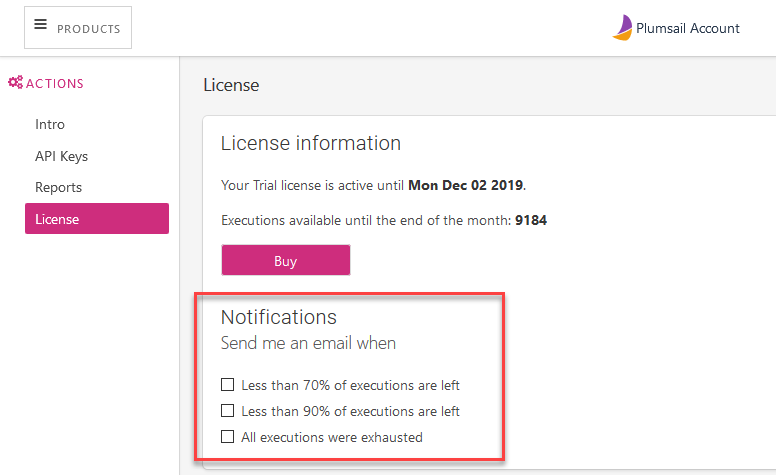
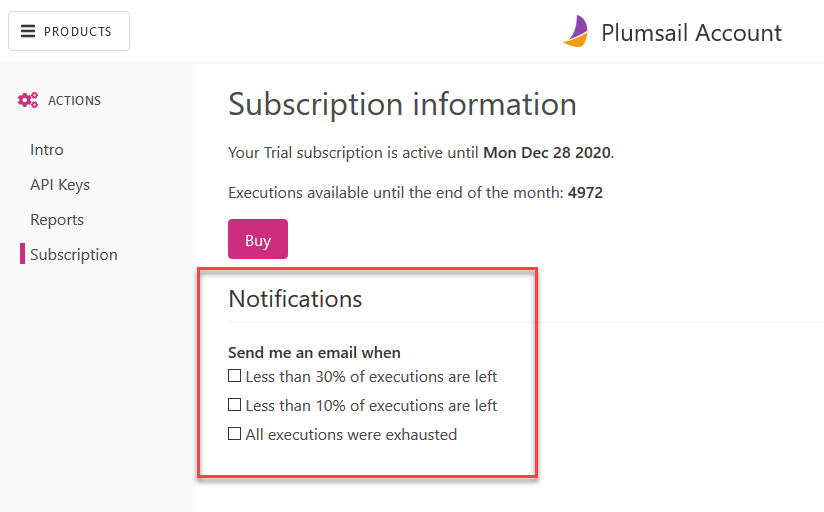
corrected license page and added Reports link

diff --git a/source/user-guide/manage-email-notifications.rst b/source/user-guide/manage-email-notifications.rst
@@ -2,12 +2,12 @@ License and notifications
 =========================
 
 License page provides information about you current license and available executions.
-You can manage email notifications about reaching limit of executions for Plumsail Actions in the `personal account <https://account.plumsail.com/>`_.
+You can manage email notifications about reaching limit of executions for Plumsail Actions in the `personal account <https://account.plumsail.com/actions/subscription>`_.
 
 There are 3 options:
 
-- Less than 70% of documents are left 
-- Less than 90% of documents are left
+- Less than 30% of executions are left 
+- Less than 10% of executions are left
 - All documents were exhausted 
 
 .. image:: ../_static/img/general/actions-email-notifications.png

diff --git a/source/user-guide/reports.rst b/source/user-guide/reports.rst
@@ -1,7 +1,7 @@
 Reports
 =======
 
-You can find usage statistic on the Reports page. It allows selecting specific interval or a single day.
+You can find usage statistic on the `Reports page <https://account.plumsail.com/actions/reports>`_. It allows selecting specific interval or a single day.
 For example, to find out what Documents actions were used from June 01, 2019 until July 13, 2019 you can select the range in the calendar
 
 .. image:: ../_static/img/general/actions-reports-calendar.png
